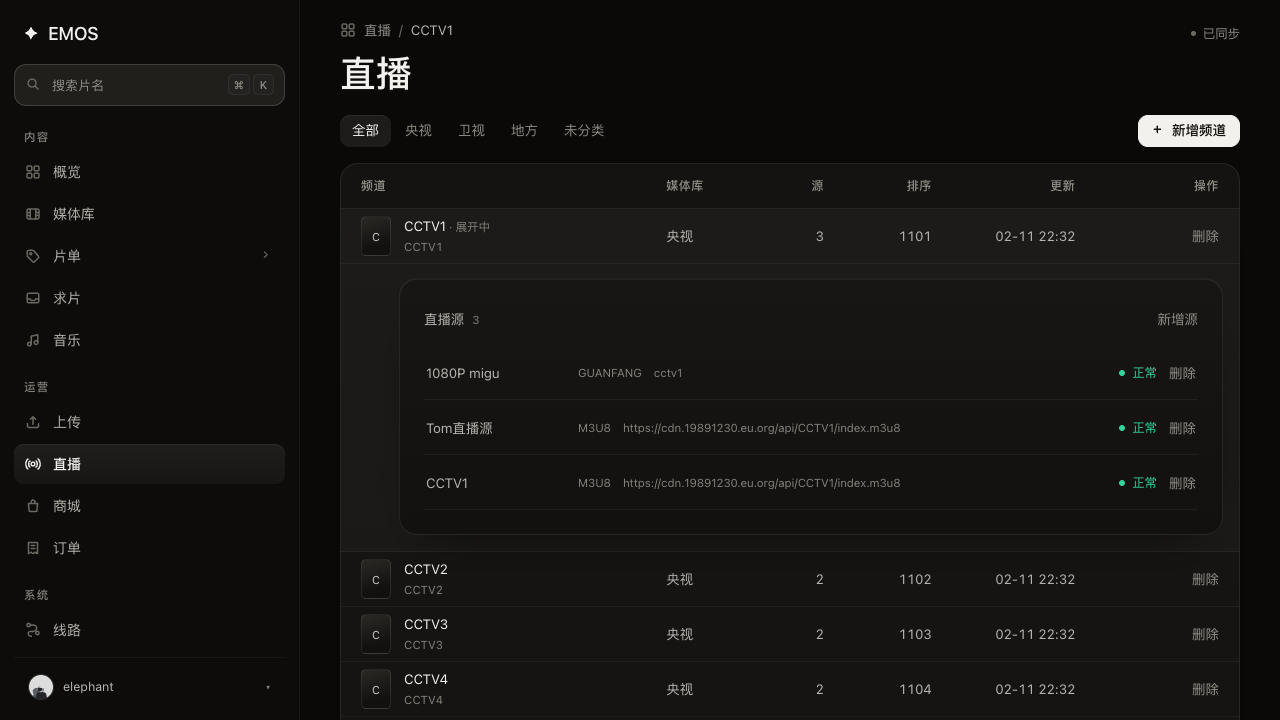
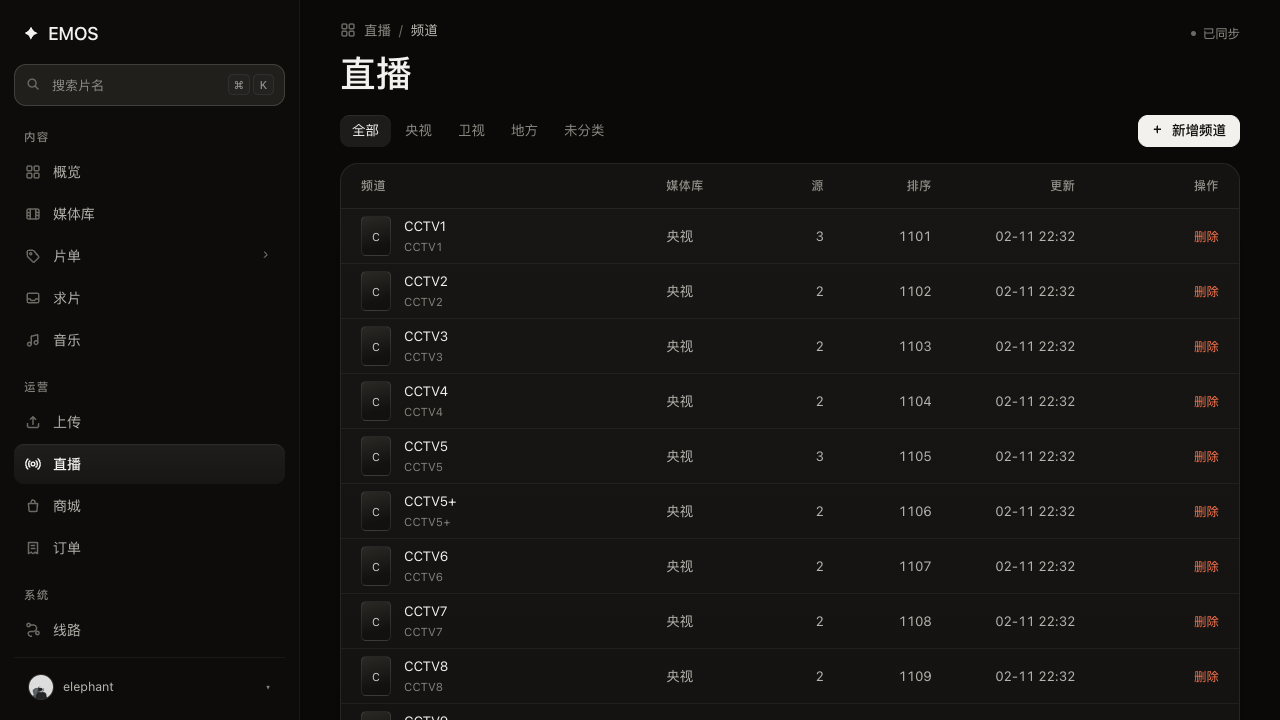
style: 危险动作统一成 .btn--danger-text，且静止态就是危险色
此前同一个「删除」在 5 个页面有 4 种样式：danger-text / quiet / danger 描边 / ghost，
其中 quiet 与 ghost 在表格里被 .table .btn 的灰字覆盖，要 hover 才变红，
等于危险动作和普通动作肉眼没差别。

改为：所有表格内删除统一 danger-text；表格里静止态直接显示危险色
（--c-red 是暖橙，不是刺眼红），hover 才铺淡红底。
涉及 线路 / 直播频道 / 直播源 / 片单内影片 / 歌曲 / 影片 / 字幕 / 回收站。

diff --git a/src/views/LiveView.tsx b/src/views/LiveView.tsx
@@ -64,7 +64,7 @@ export function LiveView({ search, onSearch }: { search: LiveSearch; onSearch: (
                     </span>
                     {row.is_can_edit ? (
                       <button
-                        className="btn btn--quiet"
+                        className="btn btn--danger-text"
                         onClick={async () => {
                           const ok = await confirmDialog({
                             title: '删除这个源？',
@@ -173,7 +173,7 @@ export function LiveView({ search, onSearch }: { search: LiveSearch; onSearch: (
                     <td style={{ textAlign: 'right' }}>
                       {item.is_can_edit ? (
                         <button
-                          className="btn btn--quiet"
+                          className="btn btn--danger-text"
                           onClick={async (e) => {
                             e.stopPropagation()
                             const ok = await confirmDialog({

diff --git a/src/views/VideoDetailView.tsx b/src/views/VideoDetailView.tsx
@@ -122,7 +122,7 @@ export function VideoDetailView({
           title="找不到这部影片"
           hint="它可能已被删除（去回收站看看），或这个 ID 不存在。"
           action={
-            <Link className="btn btn--ghost" to="/library" search={{ page: 1, page_size: 20, q: '', type: '' }}>
+            <Link className="btn btn--danger-text" to="/library" search={{ page: 1, page_size: 20, q: '', type: '' }}>
               回到媒体库
             </Link>
           }
@@ -577,7 +577,7 @@ export function VideoDetailView({
             <input className="input" value={renamingSub.title} onChange={(e) => setRenamingSub({ ...renamingSub, title: e.target.value })} autoFocus />
           </label>
           <button
-            className="btn btn--ghost"
+            className="btn btn--danger-text"
             onClick={async () => {
               const ok = await confirmDialog({
                 title: '删除这条字幕？',

diff --git a/src/views/WatchlistDetailView.tsx b/src/views/WatchlistDetailView.tsx
@@ -189,7 +189,7 @@ export function WatchlistDetailView({
                   <td style={{ textAlign: 'right' }}>
                     {item?.is_edit_video ? (
                       <button
-                        className="btn btn--quiet"
+                        className="btn btn--danger-text"
                         onClick={async () => {
                           const ok = await confirmDialog({
                             title: '移出这个影片？',
@@ -333,7 +333,7 @@ function WatchMusicList({
         title={title}
         hint={songs.data ? `${formatThousand(songs.data.total)} 首` : undefined}
         tools={
-          <Link className="btn btn--ghost" to="/watchlists" search={{ page: 1, page_size: 20, scope: 'all', type: 'music' }}>
+          <Link className="btn btn--danger-text" to="/watchlists" search={{ page: 1, page_size: 20, scope: 'all', type: 'music' }}>
             返回列表
           </Link>
         }

diff --git a/src/styles/components.css b/src/styles/components.css
@@ -1214,8 +1214,8 @@
   color: var(--fg-3);
 }
 .table .btn:hover { color: var(--fg); background: transparent; }
-.table .btn--danger-text { color: var(--fg-3); }
-.table .btn--danger-text:hover { color: var(--c-red); background: transparent; }
+.table .btn--danger-text { color: var(--c-red); }
+.table .btn--danger-text:hover { color: #fff; background: rgba(255, 92, 92, 0.16); }
 .table td.action-cell { white-space: nowrap; }
 .table .action-group { display: inline-flex; gap: 12px; }
 .table .row-menu { margin-right: -6px; }

diff --git a/src/views/LinesView.tsx b/src/views/LinesView.tsx
@@ -90,7 +90,7 @@ export function LinesView() {
                   <td style={{ textAlign: 'right' }}>
                     {line.is_self ? (
                       <button
-                        className="btn btn--quiet"
+                        className="btn btn--danger-text"
                         onClick={async () => {
                           const ok = await confirmDialog({
                             title: `删除线路「${line.name}」？`,

diff --git a/src/views/SongDetailView.tsx b/src/views/SongDetailView.tsx
@@ -41,7 +41,7 @@ export function SongDetailView({ songId }: { songId: number }) {
               收藏
             </button>
             <button
-              className="btn btn--ghost"
+              className="btn btn--danger-text"
               onClick={async () => {
                 const ok = await confirmDialog({
                   title: '删除这首歌曲？',
